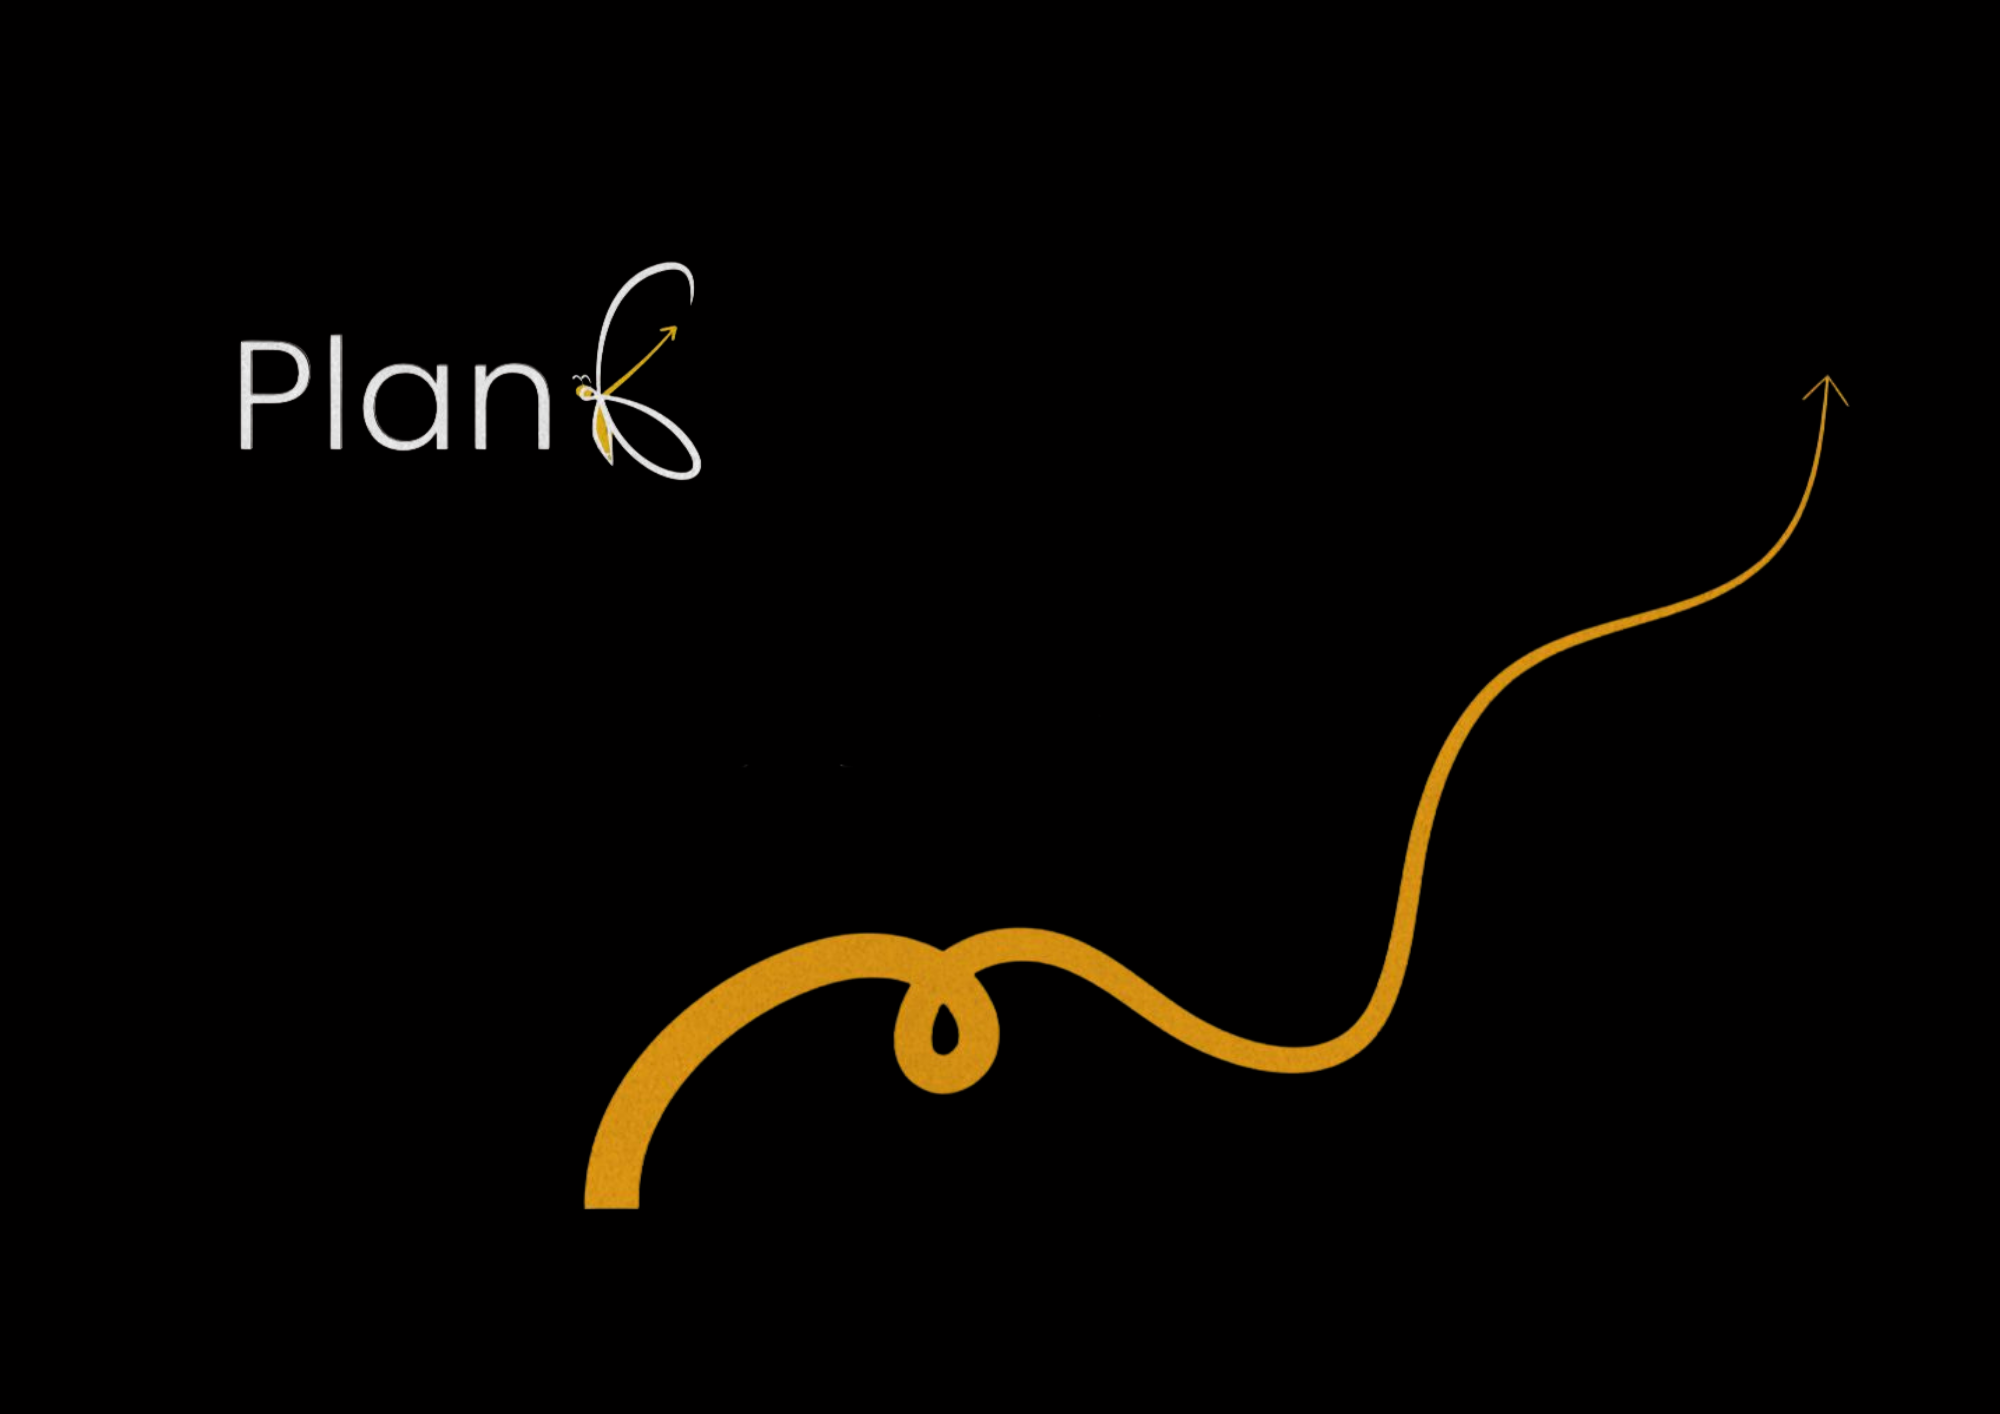
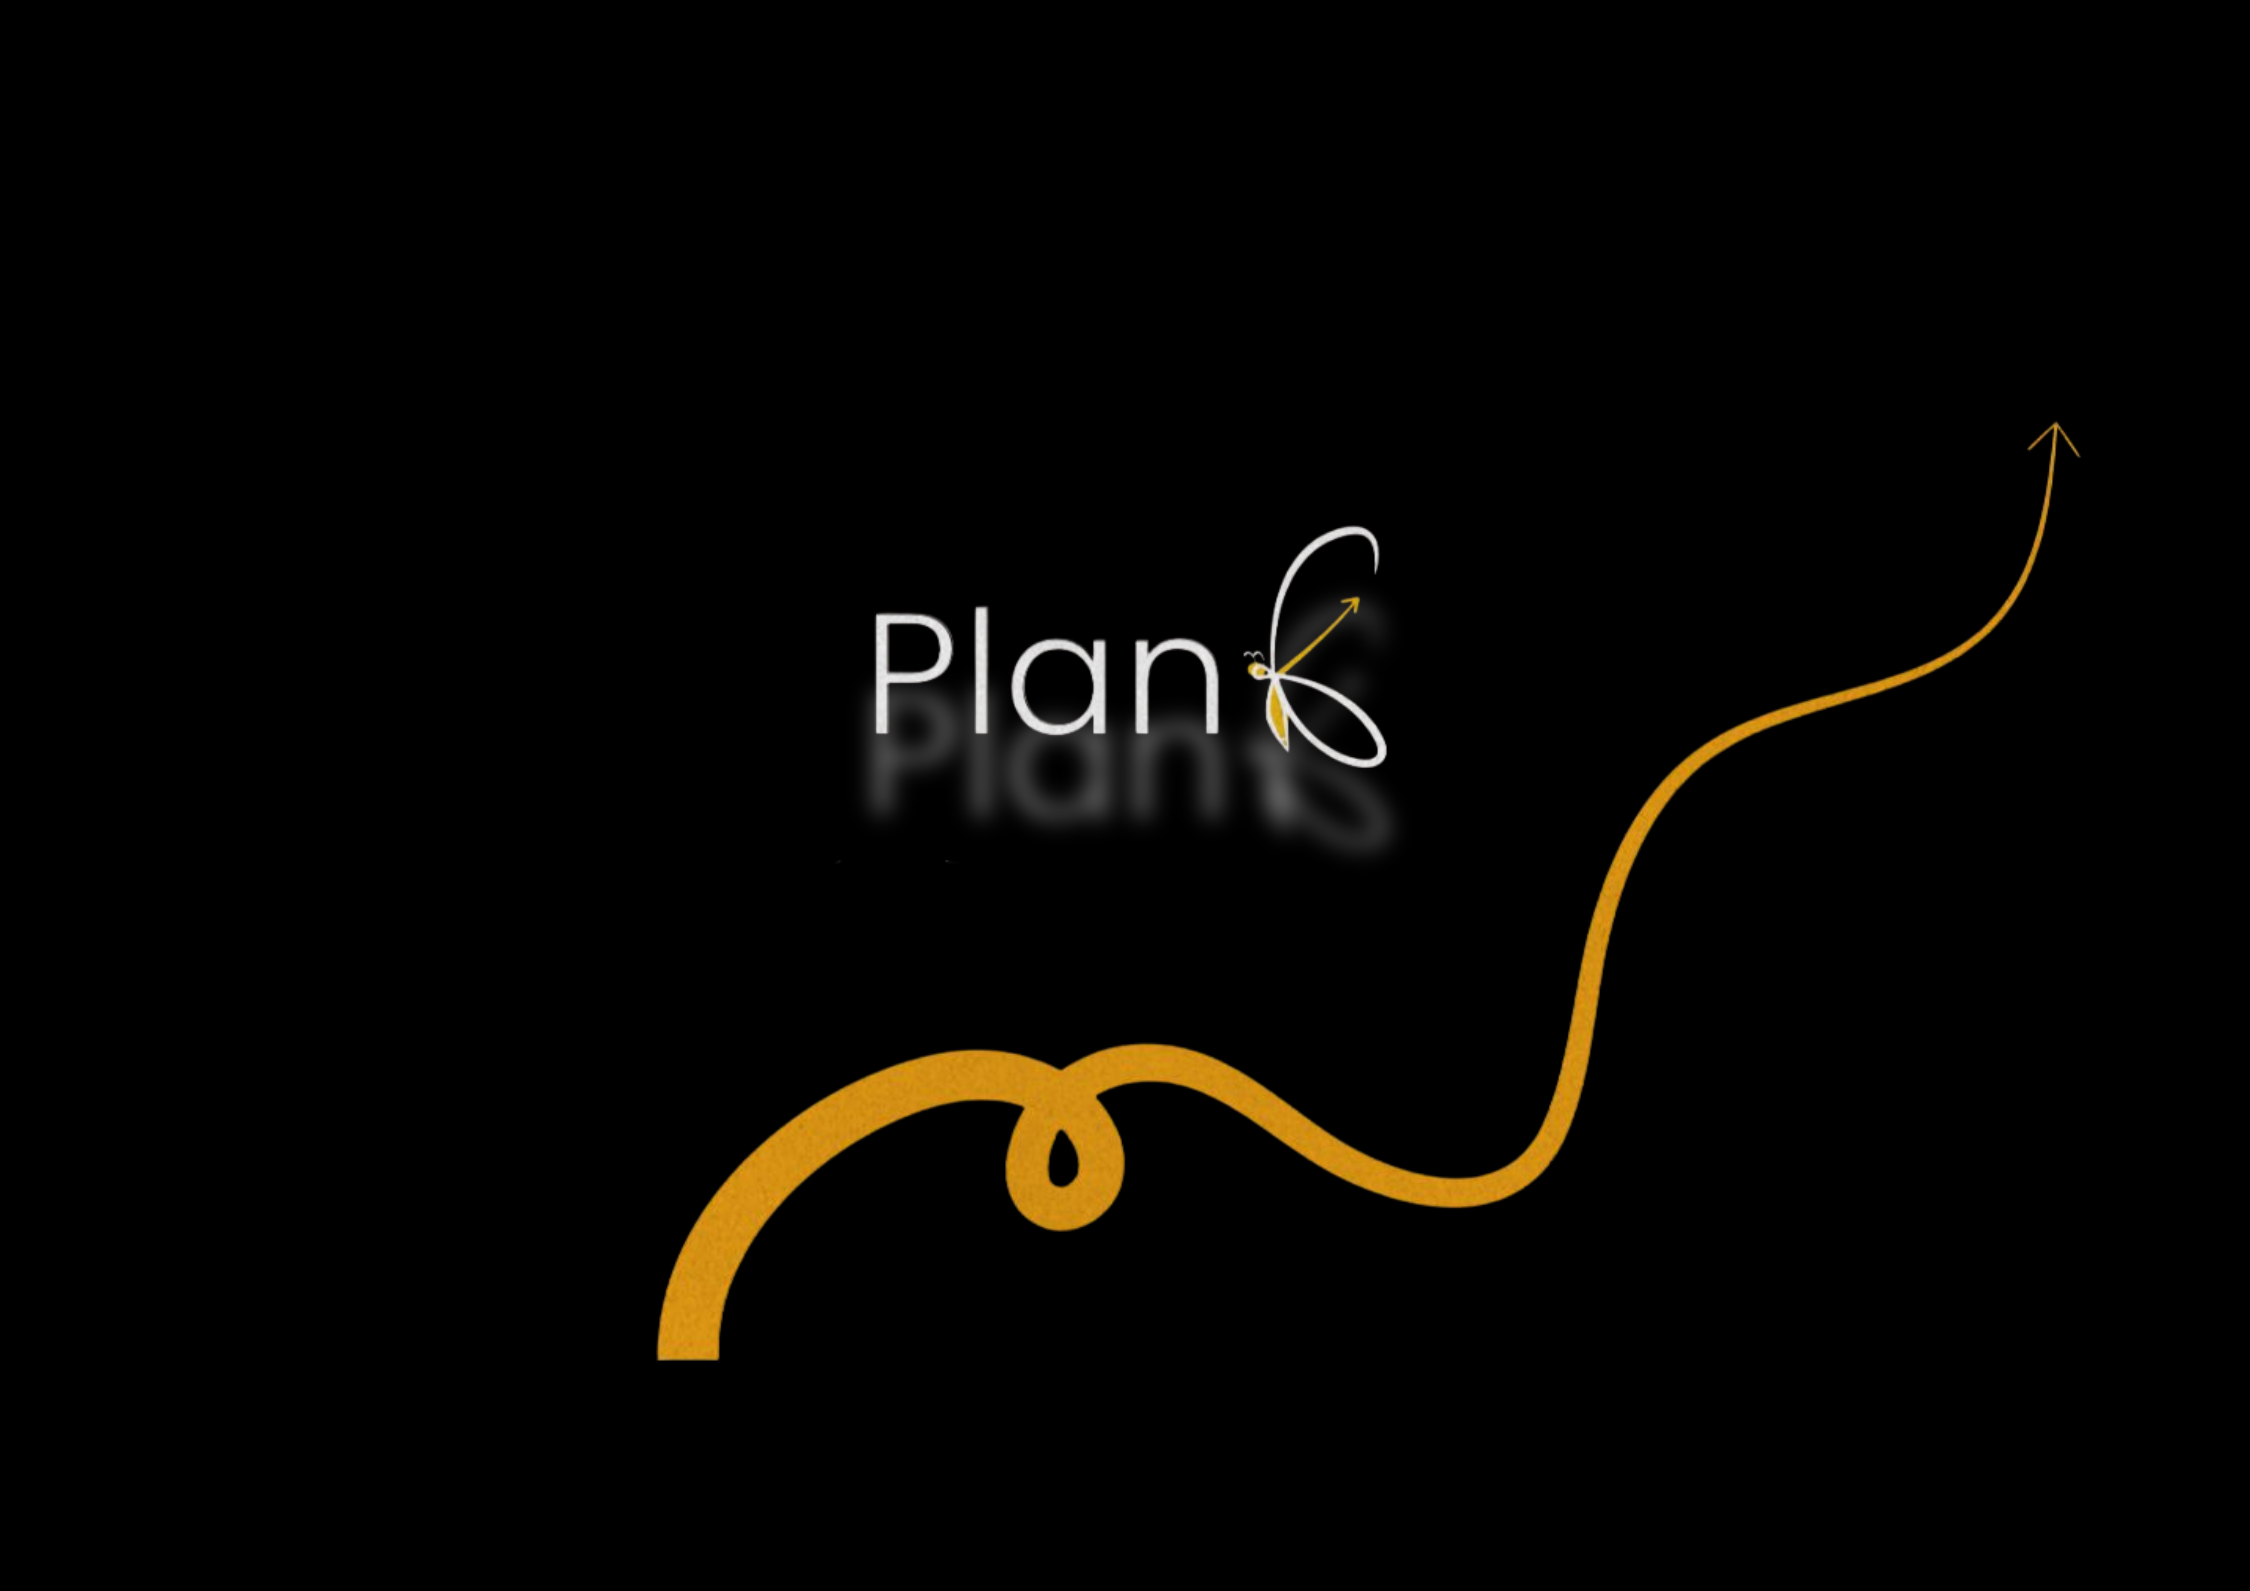
fixed the navbar and the hero background and the hero design

diff --git a/src/components/Hero.tsx b/src/components/Hero.tsx
@@ -1,40 +1,76 @@
 // src/components/Hero.tsx
-
-import React from 'react'
+import React, { useEffect, useState } from 'react'
 import { ChevronDown } from 'lucide-react'
 
 const Hero: React.FC = () => {
   const scrollToSection = (id: string) =>
     document.getElementById(id)?.scrollIntoView({ behavior: 'smooth' })
 
+  // fade‐and‐scale in on mount
+  const [mounted, setMounted] = useState(false)
+  useEffect(() => {
+    setMounted(true)
+  }, [])
+
   return (
     <section
       id="hero"
-      className="relative flex items-center justify-center h-screen bg-cover bg-center"
-      style={{ backgroundImage: 'url(/assets/honeycomb-pattern.png)' }}
+      className="
+        relative flex items-start justify-center
+        h-screen bg-black overflow-hidden
+        bg-[url('/assets/honeycomb-pattern.png')]
+        bg-cover bg-center
+      "
     >
-      <div className="container relative z-10 text-center">
-        <h1 className="text-5xl sm:text-6xl lg:text-7xl font-extrabold text-offwhite mb-6">
-          We Build Hives.<br />We Gain Trust.
+      {/* Headline moved further down */}
+      <div
+        className={`
+          relative z-10 pt-32
+          transform transition-all duration-700
+          ${mounted ? 'opacity-100 translate-y-0' : 'opacity-0 -translate-y-10'}
+        `}
+      >
+        <h1 className="whitespace-nowrap text-5xl sm:text-6xl lg:text-7xl font-extrabold text-white text-center">
+          We Build Hives. We Gain Trust.
         </h1>
-        <div className="flex flex-col items-center">
+      </div>
+
+      {/* Buttons positioned under the background logo */}
+      <div
+        className={`
+          absolute z-10 left-1/2 top-[60%]
+          transform -translate-x-1/2
+          transition-opacity duration-700
+          ${mounted ? 'opacity-100' : 'opacity-0'}
+        `}
+      >
+        <div className="flex space-x-6">
           <button
             onClick={() => scrollToSection('build-hive')}
-            className="px-8 py-3 bg-bee-black text-offwhite rounded-full hover:scale-105 transition"
+            className="
+              px-8 py-3 bg-yellow-400 text-black font-semibold rounded-full
+              transform transition duration-500 ease-out
+              hover:-translate-y-1 hover:shadow-lg
+            "
           >
             Build Your Hive
           </button>
           <button
             onClick={() => scrollToSection('join-hive')}
-            className="mt-4 px-8 py-3 bg-bee-black text-offwhite rounded-full hover:scale-105 transition"
+            className="
+              px-8 py-3 bg-transparent border-2 border-yellow-400 text-yellow-400 font-semibold rounded-full
+              transform transition duration-500 ease-out
+              hover:bg-yellow-400 hover:text-black hover:shadow-lg
+            "
           >
             Join Your Hive
           </button>
         </div>
       </div>
 
+      {/* Scroll hint */}
       <div className="absolute bottom-8 left-1/2 transform -translate-x-1/2 z-10 animate-bounce">
-        <ChevronDown className="w-8 h-8 text-offwhite" />
+        <ChevronDown className="w-8 h-8 text-white" />
       </div>
     </section>
   )

diff --git a/src/components/Navbar.tsx b/src/components/Navbar.tsx
@@ -1,7 +1,6 @@
 // src/components/Navbar.tsx
-
-import { useState, useEffect } from 'react';
-import { Link, useLocation } from 'react-router-dom';
+import { useState, useEffect } from 'react'
+import { Link, useLocation } from 'react-router-dom'
 
 const navItems: { label: string; to: string }[] = [
   { label: 'Home', to: '/' },
@@ -9,32 +8,53 @@ const navItems: { label: string; to: string }[] = [
   { label: 'Who We Serve', to: '/who-we-serve' },
   { label: 'About Us', to: '/about-us' },
   { label: 'Contact', to: '/contact' },
-];
+]
 
 export const Navbar: React.FC = () => {
-  const location = useLocation();
-  const [active, setActive] = useState(location.pathname);
+  const location = useLocation()
+  const [active, setActive] = useState(location.pathname)
+  const [scrolled, setScrolled] = useState(false)
 
   useEffect(() => {
-    setActive(location.pathname);
-  }, [location.pathname]);
+    setActive(location.pathname)
+  }, [location.pathname])
+
+  useEffect(() => {
+    const onScroll = () => {
+      setScrolled(window.scrollY > 50)
+    }
+    window.addEventListener('scroll', onScroll, { passive: true })
+    return () => window.removeEventListener('scroll', onScroll)
+  }, [])
 
   return (
-    <nav className="sticky top-0 z-50 bg-white shadow-md">
+    <nav
+      className={`
+        fixed w-full top-0 left-0 z-50
+        transition-colors duration-300
+        ${scrolled
+          ? 'bg-black/70 backdrop-blur-md'
+          : 'bg-transparent'}
+      `}
+    >
       <div className="container mx-auto flex items-center justify-between px-6 py-4">
         {/* Logo + Brand */}
         <div className="flex items-center space-x-3">
-         <img src="/assets/logo.png" alt="Plan B Logo" className="h-10 w-10 object-contain" />
+          <img
+            src="/assets/logo.png"
+            alt="Plan B Logo"
+            className="h-10 w-10 object-contain"
+          />
           <div>
-            <h1 className="text-xl font-bold">Plan B</h1>
-            <p className="text-sm text-gray-500">Amman</p>
+            <h1 className="text-xl font-bold text-white">Plan B</h1>
+            <p className="text-sm text-gray-200">Amman</p>
           </div>
         </div>
 
         {/* Nav Links */}
         <ul className="flex space-x-4">
           {navItems.map(({ label, to }) => {
-            const isActive = active === to;
+            const isActive = active === to
             return (
               <li key={to}>
                 <Link
@@ -53,10 +73,11 @@ export const Navbar: React.FC = () => {
                   {label}
                 </Link>
               </li>
-            );
+            )
           })}
         </ul>
       </div>
     </nav>
-  );
-};
+  )
+}
+export default Navbar
